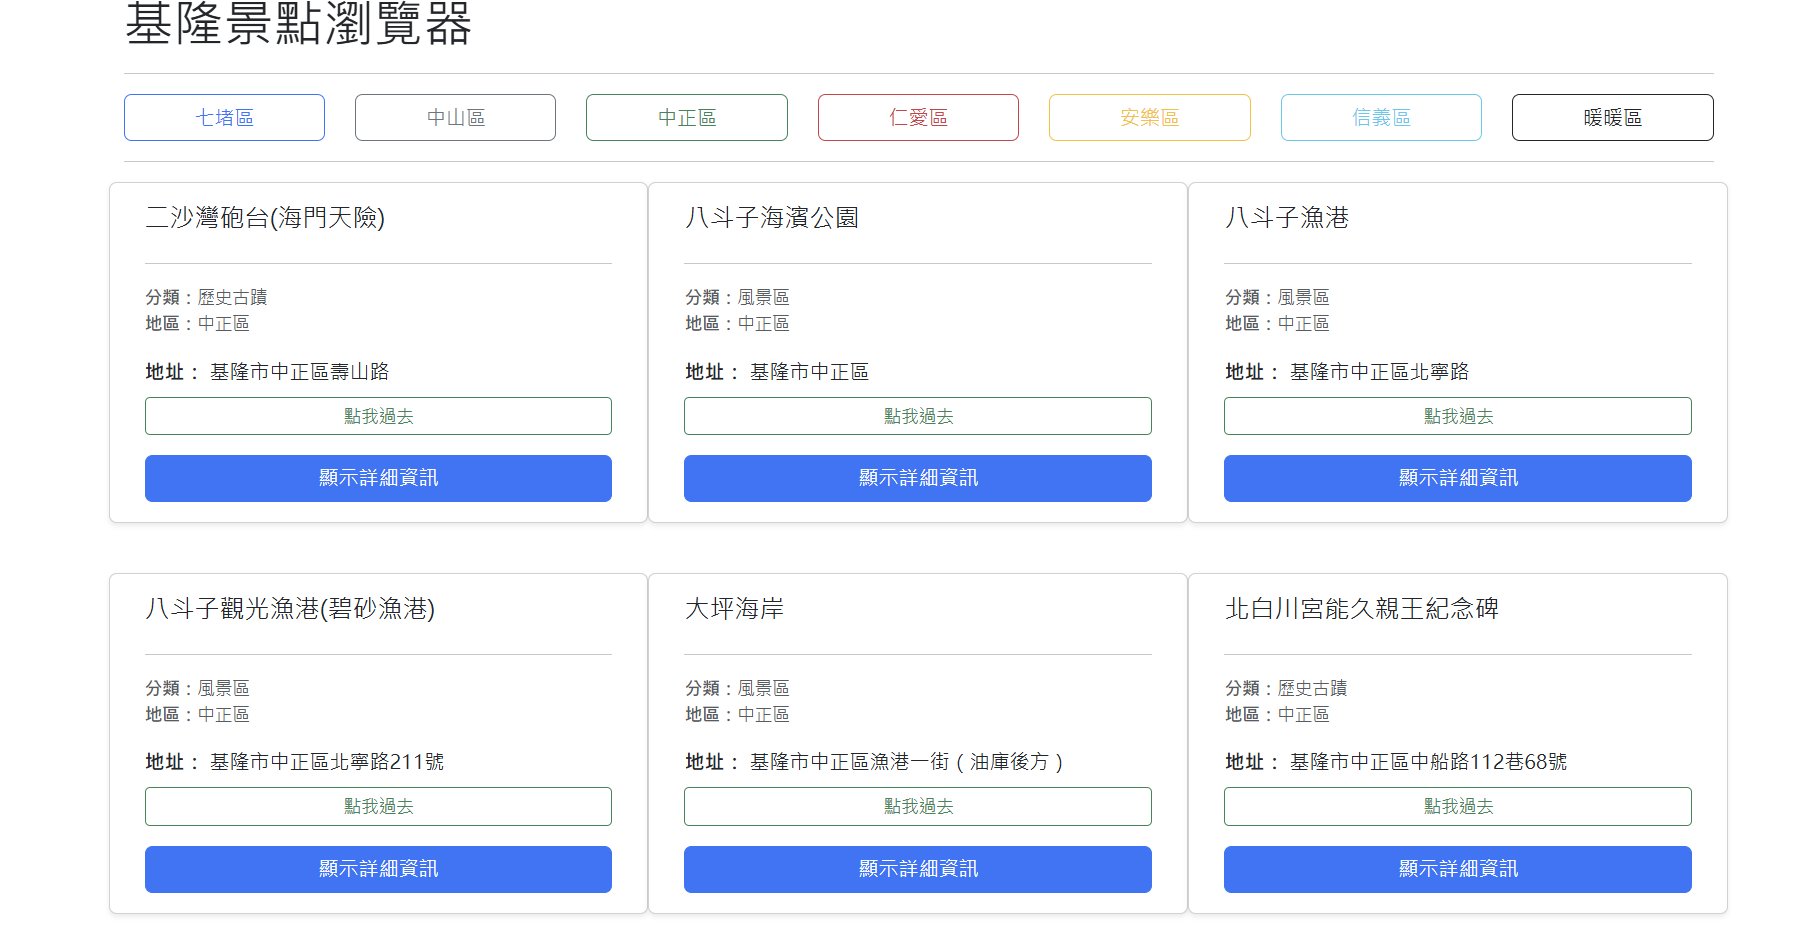
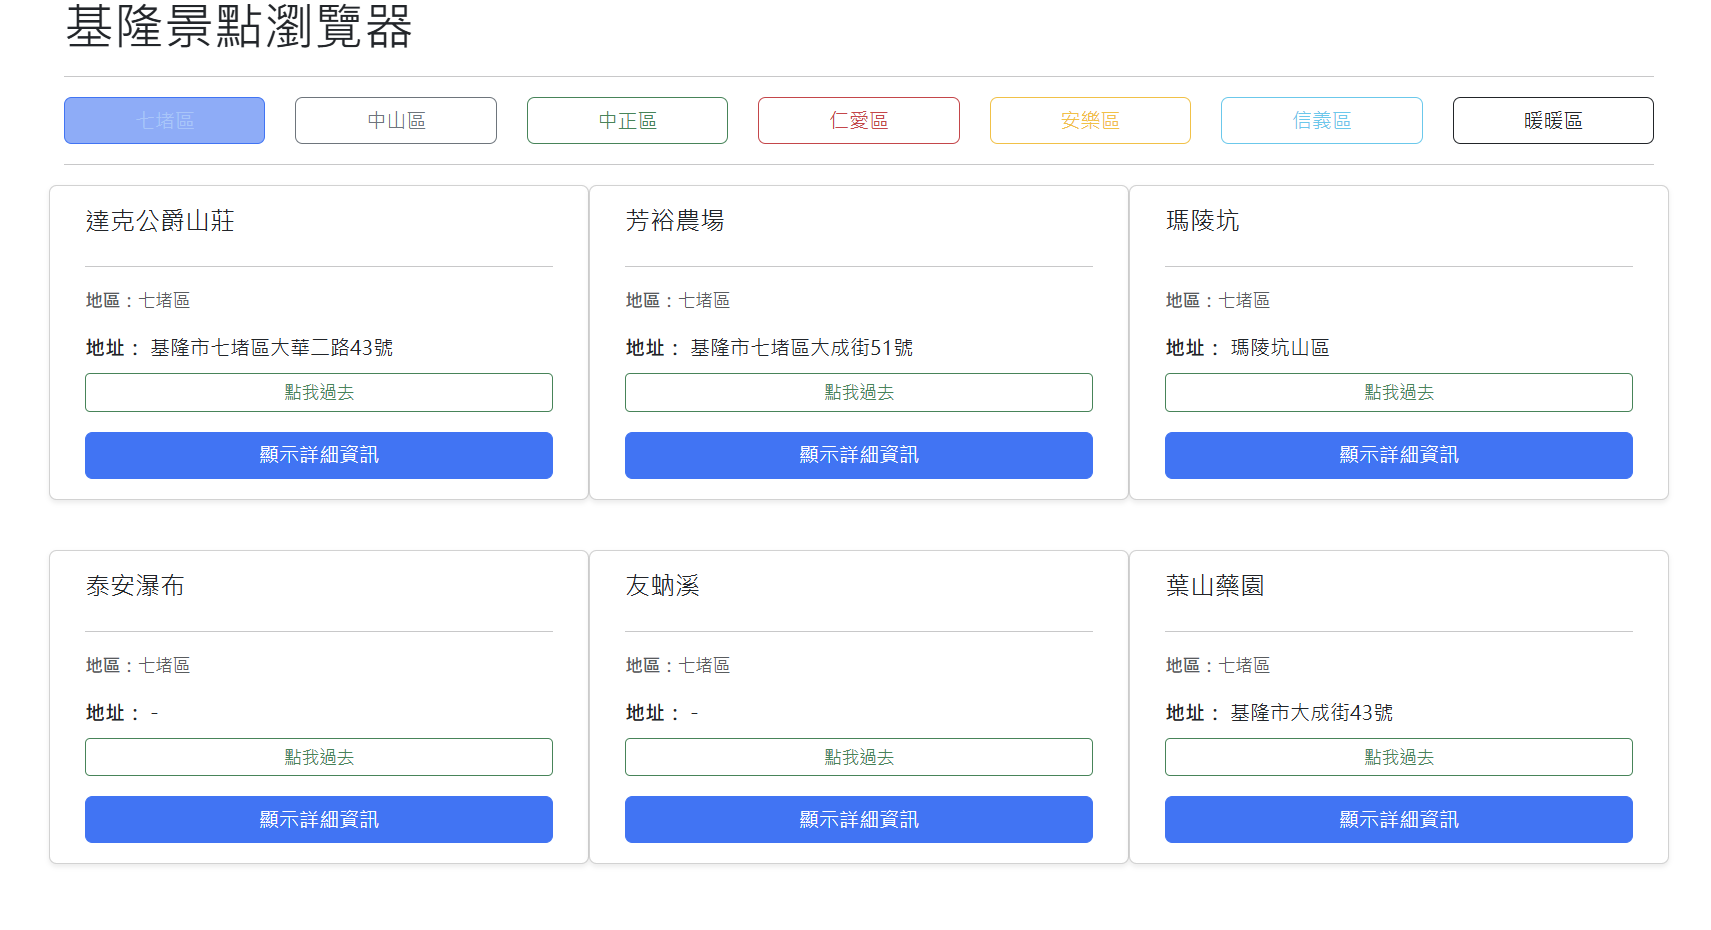
fix the broken website

diff --git a/hw3/frontend/index.html b/hw3/frontend/index.html
@@ -91,13 +91,12 @@
                                         <h2 class="card-title h5">${value.sightName}</h2>
                                         <hr>
                                         <ul class="list-unstyled text-muted small">
-                                            <li><strong>分類：</strong>${value.category}</li>
                                             <li><strong>地區：</strong>${value.zone}</li>
                                         </ul>
                                         
                                         <div class="mt-auto">
                                             <p class="mb-2"><strong>地址：</strong> ${value.address}</p>
-                                            <a href="https://www.google.com/maps/search/?api=1&query=${encodeURIComponent(value.address)}" 
+                                            <a href="https://www.google.com/maps/search/?api=1&query=${encodeURIComponent(value.sightName)}" 
                                             target="_blank" class="btn btn-sm btn-outline-success w-100 mb-3">
                                             點我過去
                                             </a>

diff --git a/hw3/backend/src/main/java/com/example/rest_service/KeelungSightsCrawler.java b/hw3/backend/src/main/java/com/example/rest_service/KeelungSightsCrawler.java
@@ -9,43 +9,58 @@ public class KeelungSightsCrawler {
 
     public KeelungSightsCrawler() {}
 
-    public Sight[] getItems(String zone) {
-        String url = "https://www.travelking.com.tw/tourguide/taiwan/keelungcity/" + zone + "/";
+    public Sight[] getItems(String town) {
+        String url = "https://okgo.tw/buty/keelung.html";
+
         try {
             Document doc = Jsoup.connect(url).get();
-            Elements links = doc.select("#guide-point .box a[href]");
-            Sight sights[] = new Sight[links.size()];
+            Elements links = doc.select("#"+ town + "  ul  li a[href]");
+            Sight[] sights = new Sight[links.size()];
 
             for (int i = 0;i < links.size();++i) {
-                String linkHref = links.get(i).absUrl("href");
+                String detailUrl = links.get(i).absUrl("href");
                 try {
-                    Document Newdoc = Jsoup.connect(linkHref).get();
-                    Sight s = new Sight();
-                    s.setSightName(Newdoc.select(".h1").text());
-                    s.setZone(doc.select(".this_title").text());
-                    s.setCategory(Newdoc.select("cite strong").text());
-                    Element elementUrl = Newdoc.select("#galleria .gpic img").first();
-                    String imgUrl;
-                    if (elementUrl != null) {
-                        imgUrl = elementUrl.attr("src");
-                    } else {
-                        imgUrl = "No PhotoUrl";
-                    }
+                    Document detail = Jsoup.connect(detailUrl).get();
 
-                    s.setPhotoUrl(imgUrl);
-                    s.setDescription(Newdoc.select(".text ").text());
-                    s.setAddress(Newdoc.select("#point_data span").text());
+                    Sight s = new Sight();
+                    //set name
+                    s.setSightName(detail.select(".sec3 h2").text());
+
+                    //set address
+                    String fullText = detail.select(".sec3").text();
+                    String address = "";
+                    if (fullText.contains("地址：")) {
+                        int startIndex = fullText.indexOf("地址：") + 3;
+                        int endIndex = fullText.indexOf("文章來源",startIndex);
+                        if (endIndex == -1) endIndex = startIndex;
+                        address = fullText.substring(startIndex,endIndex).trim();
+                    }
+                    s.setAddress(address);
+
+                    //set description
+                    s.setDescription(detail.select("div.sec3 > div:not(#FontSize):not(#Buty_View_PicSource)").text());
+
+                    //set photo url
+                    Element photoItem = detail.select(".sec3 #Buty_View_PicSource .pic img").first();
+                    if (photoItem != null) {
+                        s.setPhotoUrl(photoItem.attr("src"));
+                    } else {
+                        s.setPhotoUrl("-");
+                    }
+                    //set zone
+                    s.setZone(detail.select(".sec3 strong a[href*=town]").text());
 
                     sights[i] = s;
-
-                } catch (Exception e) {
-                    throw new RuntimeException(e);
+                }catch (Exception e) {
+                    System.err.println(e.getMessage());
+                    return new Sight[0];
                 }
             }
             return sights;
 
-        } catch (Exception e) {
-            throw new RuntimeException(e);
+        }catch (Exception e) {
+            System.err.println(e.getMessage());
+            return new Sight[0];
         }
     }
 }

diff --git a/hw3/backend/src/main/java/com/example/rest_service/Sight.java b/hw3/backend/src/main/java/com/example/rest_service/Sight.java
@@ -3,7 +3,6 @@ package com.example.rest_service;
 public class Sight implements java.io.Serializable {
     String sightName = null;
     String zone = null;
-    String category = null;
     String photoUrl = null;
     String address = null;
     String description = null;
@@ -16,10 +15,6 @@ public class Sight implements java.io.Serializable {
 
     public String getZone() {
         return zone;
-    }
-
-    public String getCategory() {
-        return category;
     }
 
     public String getPhotoUrl() {
@@ -42,10 +37,6 @@ public class Sight implements java.io.Serializable {
         this.zone = zone;
     }
 
-    public void setCategory(String category) {
-        this.category = category;
-    }
-
     public void setPhotoUrl(String photoUrl) {
         this.photoUrl = photoUrl;
     }
@@ -63,7 +54,6 @@ public class Sight implements java.io.Serializable {
         return "Sight{" +
                 "sightName='" + sightName + '\'' +
                 ", zone='" + zone + '\'' +
-                ", category='" + category + '\'' +
                 ", photoUrl='" + photoUrl + '\'' +
                 ", address='" + address + '\'' +
                 ", description='" + description + '\'' +

diff --git a/hw3/backend/src/main/java/com/example/rest_service/SightService.java b/hw3/backend/src/main/java/com/example/rest_service/SightService.java
@@ -23,11 +23,12 @@ public class SightService {
         zoneMap.put("nuannuan", "暖暖區");
 
         KeelungSightsCrawler crawler = new KeelungSightsCrawler();
-        String[] zones = {"qidu", "zhongshan", "zhongzheng", "renai", "anle", "xinyi", "nuannuan"};
-        for (String zone : zones) {
-            Sight[] sights = crawler.getItems(zone);
-            for (Sight sight : sights) {
-                if (sight != null) allsights.add(sight);
+
+        String[] towns = {"Town1-1","Town1-2","Town1-3","Town1-4","Town1-5","Town1-6","Town1-7"};
+        for (String town : towns) {
+            Sight[] sights = crawler.getItems(town);
+            for (Sight s : sights) {
+                if (s != null) allsights.add(s);
             }
         }
     }
